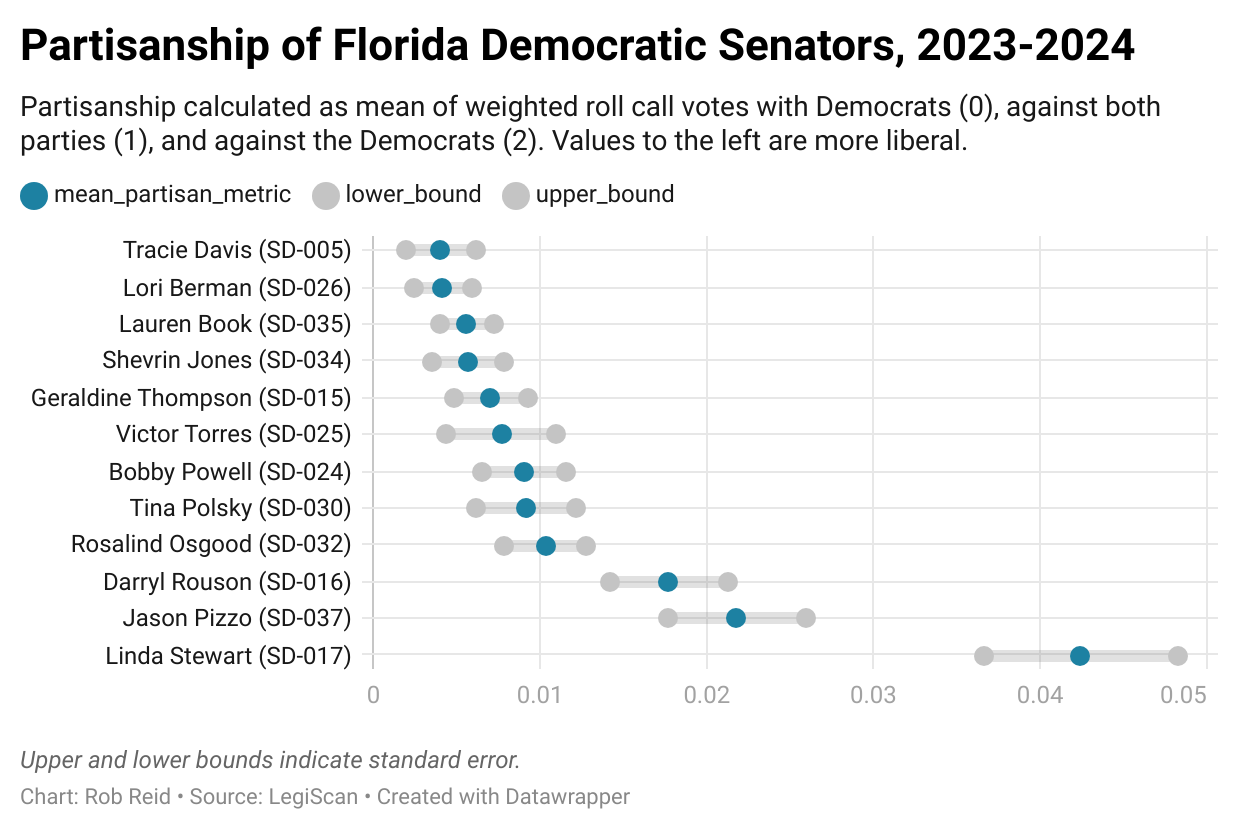
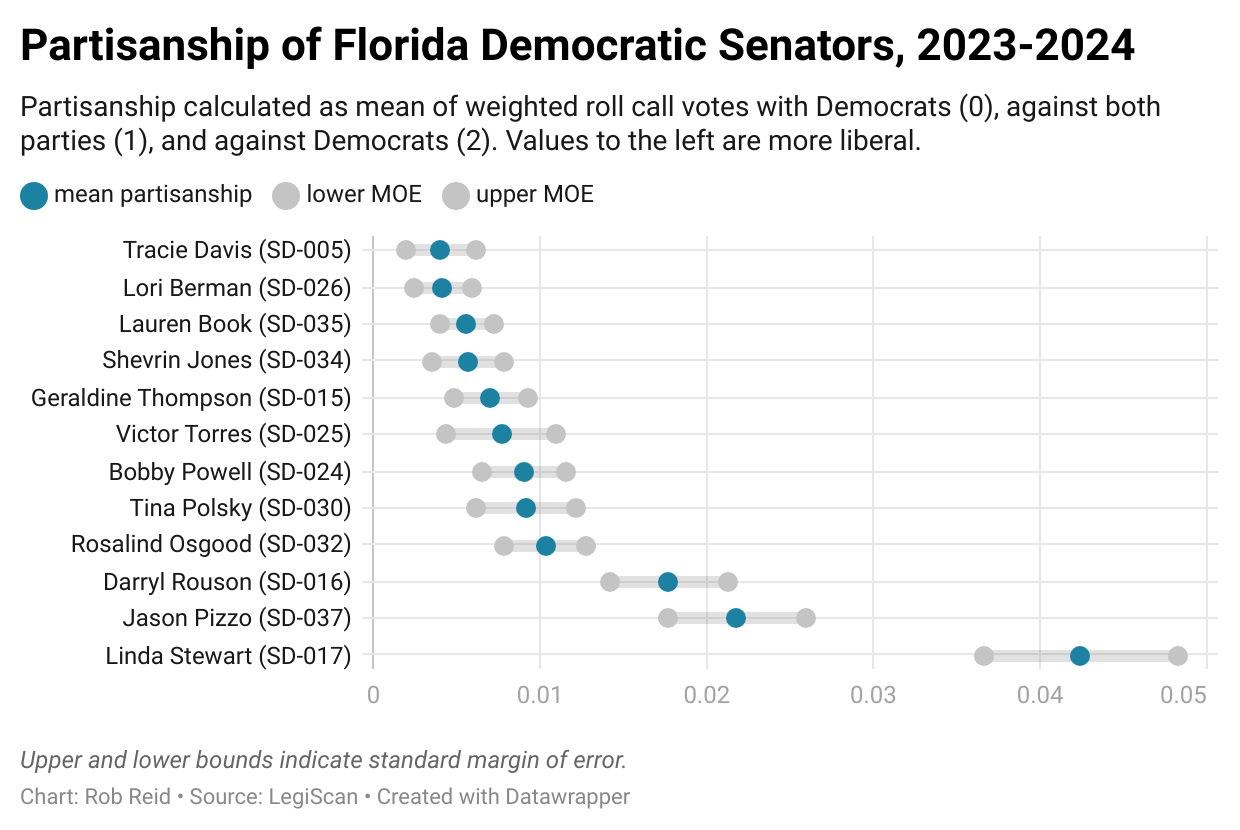
updated sample data viz

Changed region(s): [[0.0919, 0.2108, 0.5516, 0.2711], [0.2452, 0.1506, 0.7968, 0.1807], [0.3677, 0.9036, 0.521, 0.9337]]

diff --git a/README.md b/README.md
@@ -87,7 +87,7 @@ The two key metrics in this data are as follows:
 See [Data Dictionary for app_voting_patterns](docs/data-dictionary-app-voting-patterns.csv).
 
 ### Sample Data Visualizations
-Here's a sample use case for creating a data visualization based on querying this database in R:
+Here's a sample use case for creating a data visualization based on creating a dataframe in R, which is  exporting as [data-app/viz_partisanship.csv](data-app/viz_partisan_senate_d.csv) and then charted in DataWrapper:
  ```
 viz_partisanship <- calc_legislator_mean_partisanship %>%
   left_join(p_legislators %>%
@@ -107,7 +107,6 @@ viz_partisanship <- calc_legislator_mean_partisanship %>%
 viz_partisan_senate_d <- viz_partisanship %>%
   filter(party == 'D', role == 'Sen')
  ```
-Data exported to [data-app/viz_partisanship.csv](data-app/viz_partisan_senate_d.csv) and then displayed in DataWrapper:
 
 <img src="./docs/viz_partisan_dem_senate.png" width=100%>
 
